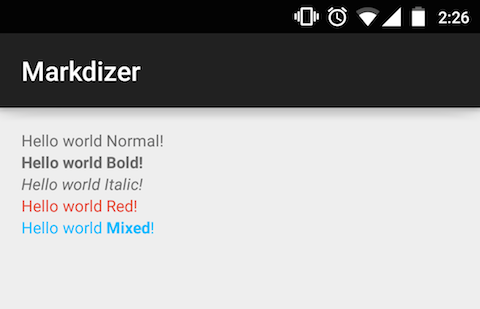
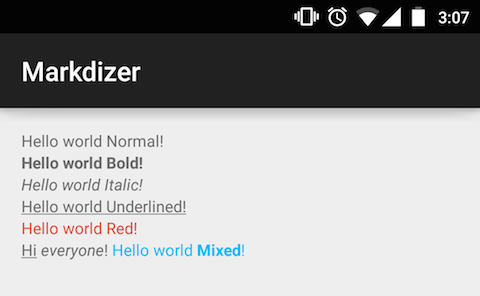
Add underline pattern

diff --git a/app/src/main/java/com/github/bbarm/markdizer/sample/MainActivity.java b/app/src/main/java/com/github/bbarm/markdizer/sample/MainActivity.java
@@ -4,6 +4,7 @@ import android.support.v7.app.ActionBarActivity;
 import android.os.Bundle;
 import android.widget.TextView;
 
+import com.github.bbarm.markdizer.Markdizer;
 import com.github.bbarm.markdizer.R;
 
 
@@ -17,12 +18,14 @@ public class MainActivity extends ActionBarActivity {
         TextView normal = (TextView) findViewById(R.id.txt_normal);
         TextView bold = (TextView) findViewById(R.id.txt_bold);
         TextView italic = (TextView) findViewById(R.id.txt_italic);
+        TextView underlined = (TextView) findViewById(R.id.txt_underlined);
         TextView red = (TextView) findViewById(R.id.txt_red);
         TextView mixed = (TextView) findViewById(R.id.txt_mixed);
 
         normal.setText(Markdizer.markdize(getString(R.string.hello_world)));
         bold.setText(Markdizer.markdize(getString(R.string.hello_world_bold)));
         italic.setText(Markdizer.markdize(getString(R.string.hello_world_italic)));
+        underlined.setText(Markdizer.markdize(getString(R.string.hello_world_underlined)));
         red.setText(Markdizer.markdize(getString(R.string.hello_world_red)));
         mixed.setText(Markdizer.markdize(getString(R.string.hello_world_mixed)));
     }

diff --git a/app/src/main/java/com/github/bbarm/markdizer/Markdizer.java b/app/src/main/java/com/github/bbarm/markdizer/Markdizer.java
@@ -21,7 +21,7 @@
  * OUT OF OR IN CONNECTION WITH THE SOFTWARE OR THE USE OR OTHER DEALINGS IN THE
  * SOFTWARE.
  */
-package com.github.bbarm.markdizer.sample;
+package com.github.bbarm.markdizer;
 
 import android.content.Context;
 import android.text.Html;
@@ -71,8 +71,12 @@ public class Markdizer {
                 "<b>$1</b>"
         ));
         patterns.add(new Pair<Pattern, String>(
-                Pattern.compile("`[_](.+?)[_]`"),
+                Pattern.compile("`[/](.+?)[/]`"),
                 "<i>$1</i>"
+        ));
+        patterns.add(new Pair<Pattern, String>(
+                Pattern.compile("`[_](.+?)[_]`"),
+                "<u>$1</u>"
         ));
         patterns.add(new Pair<Pattern, String>(
                 Pattern.compile("`([a-fA-F0-9]{3}|[a-fA-F0-9]{6})#(.+?)#`"),

diff --git a/README.md b/README.md
@@ -2,15 +2,17 @@
 Span your texts of TextViews easily.
 
 # Usage
-You can span your texts with ``` ` ```, `*`, `_`, and `#`.
+You can span your texts with ``` ` ```, `*`, `/`, `_`, and `#`.
 - Bold : ``` `*blah blah*` ```
-- Italic : ``` `_blah blah_` ```
+- Italic : ``` `/blah blah/` ```
+- Underline : ``` `_blah blah_` ```
 - Font Color : ``` `ffffff#blah blah#` ```
 - Mixed : ``` `e74c3c#This is `*bold*` text#` ```
 
 Then the Markdizer converts your texts like:
 - `<b>blah blah</b>`
 - `<i>blah blah</i>`
+- `<u>blah blah</u>`
 - `<font color="#ffffff">blah blah</font>`
 
 # Example
